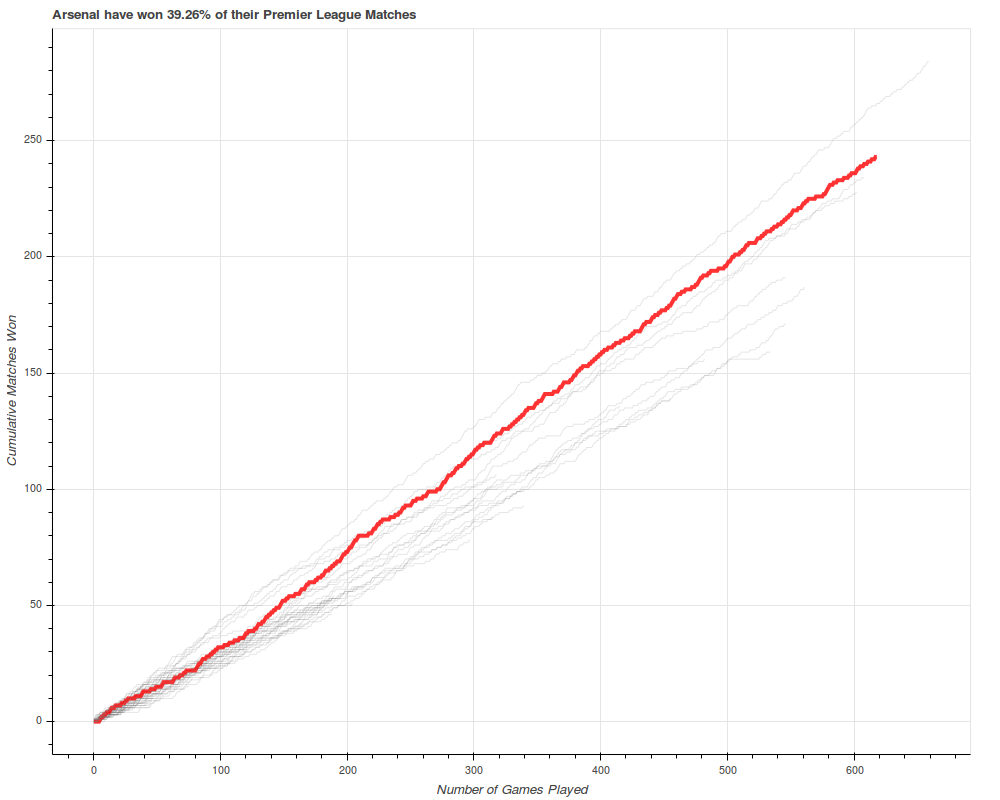
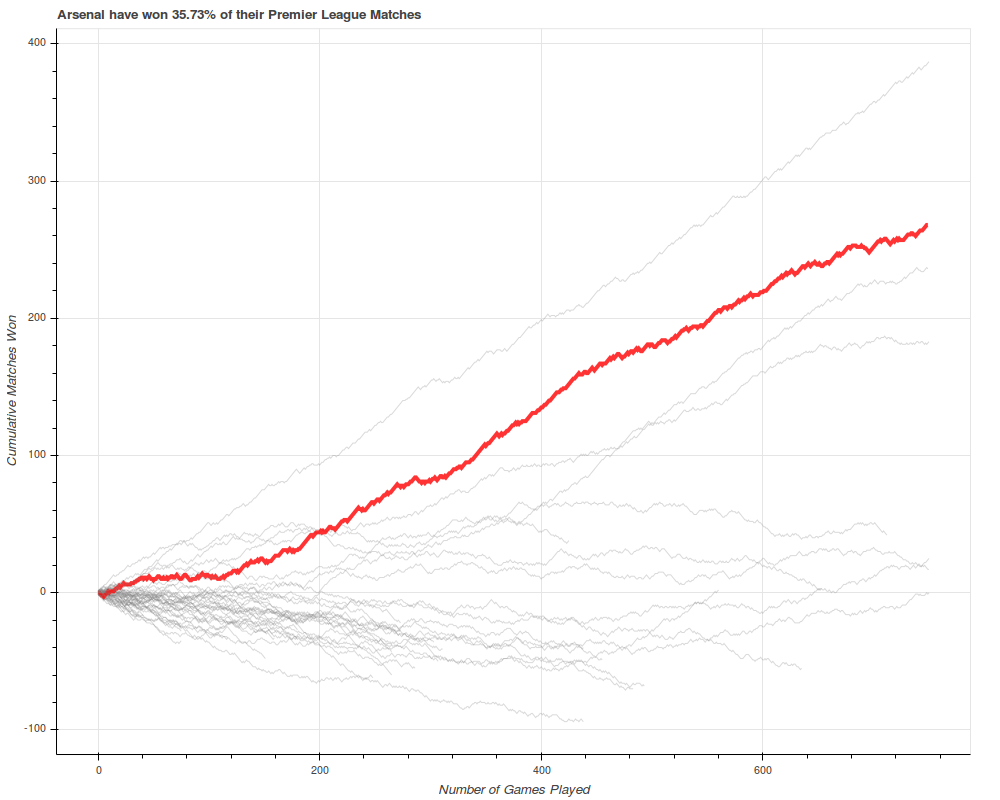
new figs

diff --git a/results_chart.py b/results_chart.py
@@ -47,7 +47,7 @@ def select_frame():
                 sel.loc[mask, 'Alpha']   = 0.8
                 sel.loc[mask, 'Width']   = 4
                 sel.loc[~mask, 'Colour'] = 'grey'
-                sel.loc[~mask, 'Alpha']  = 0.2
+                sel.loc[~mask, 'Alpha']  = 0.3
                 sel.loc[~mask, 'Width']  = 1
         return sel
 
@@ -62,6 +62,8 @@ def update():
 
                 p.title.text = "%s have won %.2f%% of their Premier League Matches" %(selected_team[0], df_plot.PC[df_plot.Team == selected_team[0]])
 
+        else:
+                p.title.text = ""
 
         source.data = dict(
                 x = list(df_plot.Record.apply(len).apply(range)),

diff --git a/make_team_data.py b/make_team_data.py
@@ -17,8 +17,8 @@ for row in df.iterrows():
 
         if row.FTAG > row.FTHG:
        
-                team_wins[row.AwayTeam].append(-1)
-		team_wins[row.HomeTeam].append(1)
+                team_wins[row.AwayTeam].append(1)
+		team_wins[row.HomeTeam].append(-1)
 
 	if row.FTHG == row.FTAG:
 
